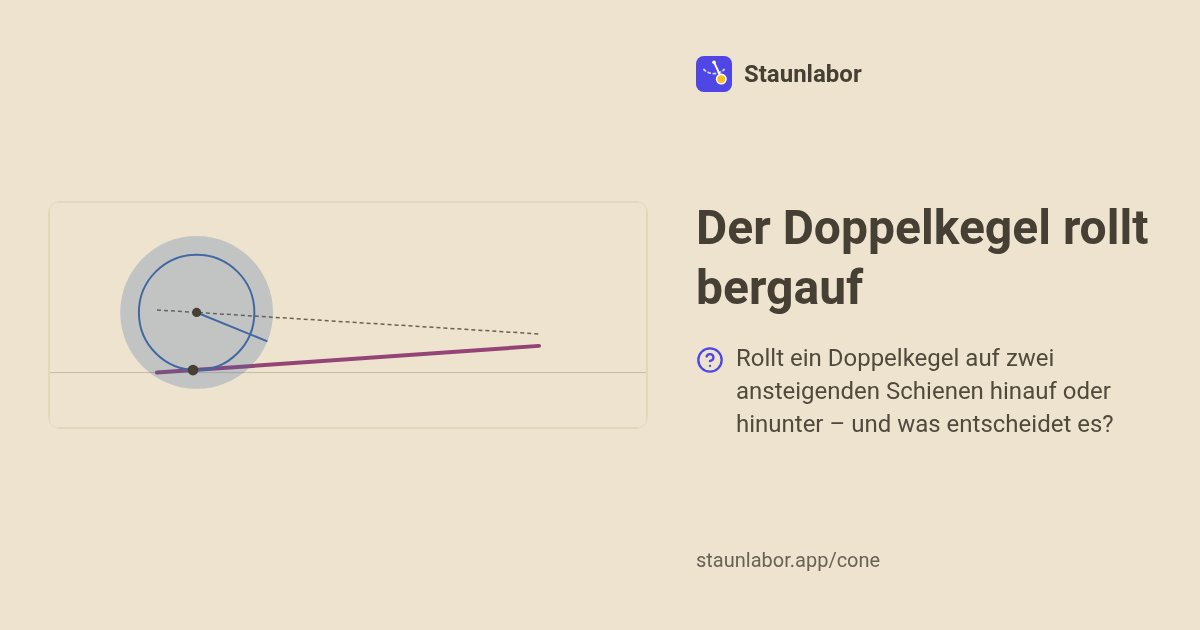
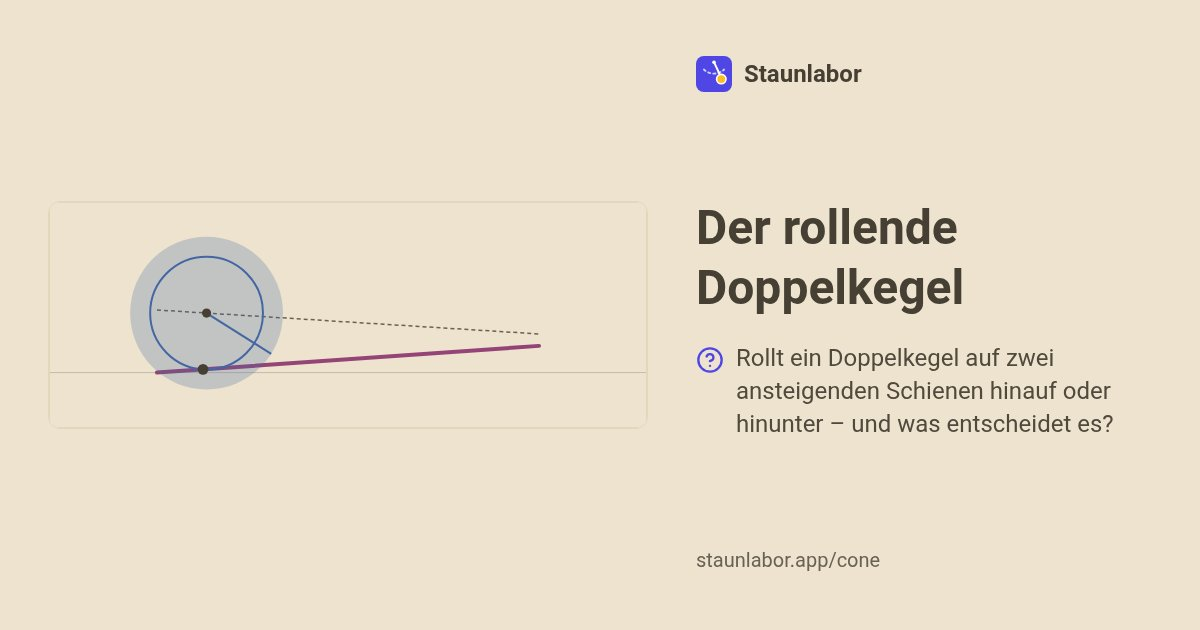
fix(experiments): the double cone's title and summary no longer give its answer away
"Der Doppelkegel rollt bergauf" and "rollt von selbst hinauf" answered the
page's question before anybody tried. Marcel agreed to "Der rollende
Doppelkegel"; the summary now ends on the question. Seven languages, the
link-preview picture rewritten, translations.md logged.

Claude-Session: https://claude.ai/code/session_014vjfwQrPysnYMwTbDwYefK

diff --git a/docs/translations.md b/docs/translations.md
@@ -152,3 +152,4 @@ so a reviewer knows which wordings are newer than the rest.
 | 2026-11-20 | `experiments.overview.week.{eyebrow,open,current}` (was `overview.daily.{eyebrow,open,today}`), `experiments.overview.history.{title,open}` | the experiment of the day became the experiment of the week (Marcel: "Stelle auf Experiment of the week um"): `de-CH` "Experiment der Woche", "Diese Woche" (was "Heute"), "Die Experimente der letzten Wochen", "Frühere Wochen"; `open` unchanged, only moved; `zh` "往期实验" for the earlier ones; `de-CH` and `en` written, the other five machine-translated | the weekly pick |
 | 2026-11-20 | `experiments.sphere.views.goal`, `experiments.coriolis.target`, `experiments.overhang.goal` (new) | the goal written into the drawing: the equator in the sphere's side view ("Ziel: Äquator"), the other seat on the carousel ("Ziel"), a line a whole block past the edge ("Ziel: 1 Klotzlänge"); kept short to fit the drawings (`fr` "Objectif : 1 bloc entier", `it` "Obiettivo: 1 blocco intero"); `de-CH` and `en` written, the other five machine-translated | the exhibits' sweep |
 | 2026-11-20 | `experiments.overview.history.{title,open}` (removed) | the dialog of earlier weeks went (Marcel: "gehe stattdessen gleich auf die Seite mit den Experimenten anstelle des Dialogs"); "Alle Exponate" beside it already leads to the list; removed from all seven | the weekly pick |
+| 2026-11-20 | `experiments.exhibits.cone.{title,summary}` | the title and the summary gave the page's answer away ("rollt bergauf", "rollt von selbst hinauf"); Marcel agreed to a new title: `de-CH` "Der rollende Doppelkegel", and the summary ends on the question ("… und wohin er rollt, ist nicht so klar, wie es aussieht."); the link-preview picture `cone.jpg` rewritten with it; `de-CH` and `en` written, the other five machine-translated | the exhibits' sweep |
